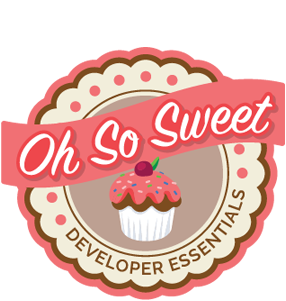
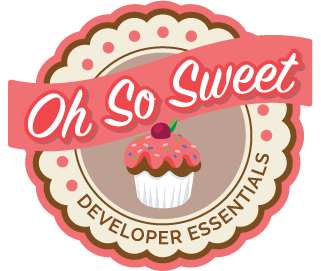
Updated all the costers and fixed the alignment and position issues.

diff --git a/source/assets/stylesheets/_track.scss b/source/assets/stylesheets/_track.scss
@@ -317,8 +317,7 @@
     width: 95%;
 
     @include tablet {
-      right: 20px;
-      max-width: 42%;
+      right: 15px;
       width: auto;
     }
 
@@ -326,6 +325,7 @@
       box-shadow: none;
       width: 150px;
       margin: 0 auto;
+      max-width: none;
 
       @include tablet {
         margin: 0;
